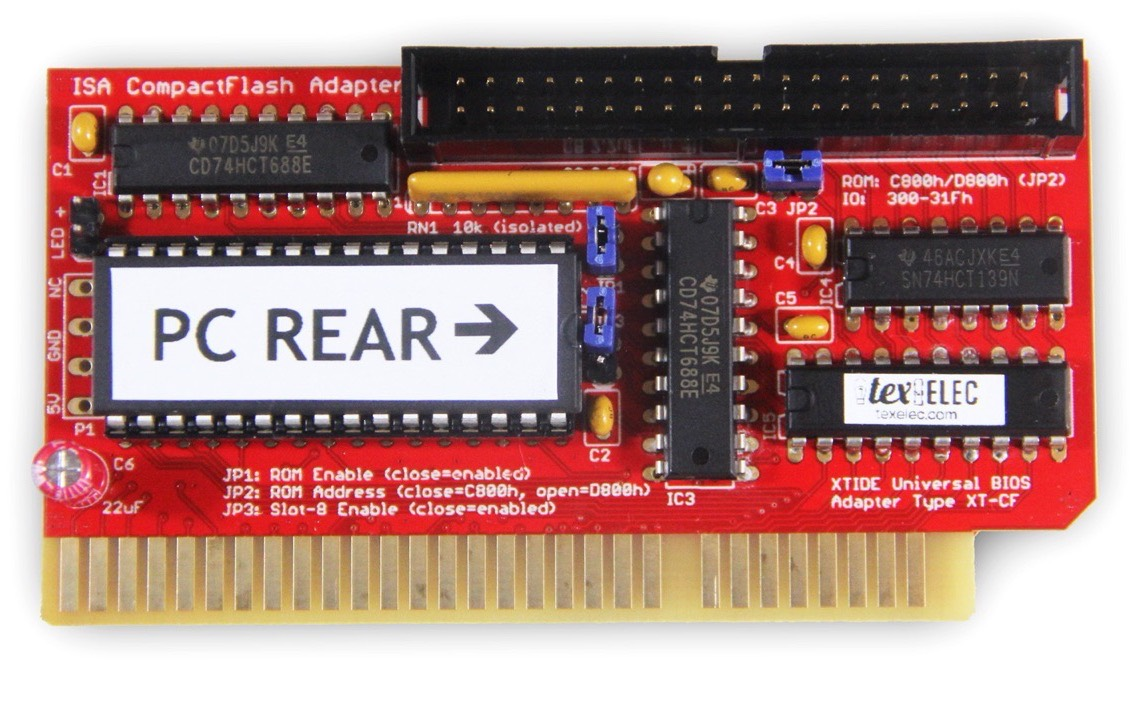
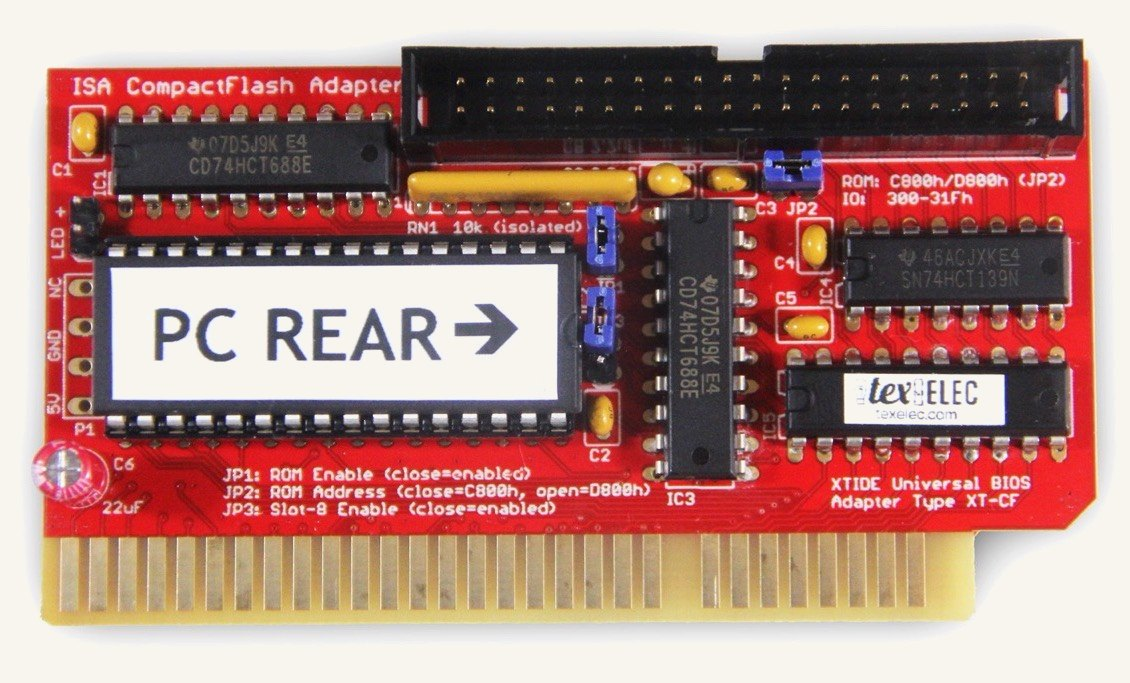
Design refresh phase 4: re-matte + trim hero images
tools/hero-rematte.py composites transparent heroes onto the ground
colour (#f8f5ef) and replaces near-white studio backgrounds on the
rest, so every frameless hero and feed thumbnail now sits flush on the
page with no white rectangle. Dead margins trimmed (never below 50% of
the original in a dimension). Five opaque photo-PNGs converted to JPEG
with their references updated; logos/pixel-art/screenshots kept as-is.
Hero <img> capped at 40rem so small source art isn't upscaled hard.

Checkpoint for review — not for master.

Claude-Session: https://claude.ai/code/session_012utzLUUvTAkHjcsaopjnGb

diff --git a/css/main.css b/css/main.css
@@ -222,7 +222,7 @@ aside p {
   font-size: 1.1rem;
 }
 
-/* hero image — frameless, sits on the ground, runs wider than the text */
+/* hero image — frameless, sits on the ground */
 .hero {
   margin: 1.9rem 0 0;
 }
@@ -230,7 +230,7 @@ aside p {
 .hero img {
   display: block;
   width: 100%;
-  max-width: 100%;
+  max-width: min(40rem, 100%);   /* consistent presence; small source art isn't blown up past this */
   height: auto;
   border: 0;
   border-radius: 0;

diff --git a/tools/hero-rematte.py b/tools/hero-rematte.py
@@ -1,0 +1,136 @@
+#!/usr/bin/env python3
+"""Re-matte hero images onto the site ground colour, trim dead margins,
+and convert opaque photo-PNGs to JPEG (updating the frontmatter/body refs).
+Full-frame photos and screenshots are left untouched. Re-run-safe."""
+import re, pathlib, sys
+from PIL import Image, ImageDraw, ImageChops
+
+GROUND = (0xF8, 0xF5, 0xEF)
+CONTENT_DIRS = ['_hardware', '_posts', '_projects', '_howto', '_software', '_drafts', '_reference']
+# PNG heroes that must stay PNG (logos / pixel art / screenshots)
+KEEP_PNG = {
+    '3dfx-original-logo-design.png', '8-bit-Memories.png', 'keen.png',
+    'moonlight.png', 'retropie_logo.png',
+    'lotus-ste-lotus-esprit-turbo-challenge-car-atari-st.png',
+}
+
+def hero_map():
+    m = {}
+    for d in ['_hardware', '_posts', '_projects', '_howto', '_software']:
+        for p in pathlib.Path(d).glob('*.md'):
+            mm = re.search(r'^hero:\s*(\S+)\s*$', p.read_text(), re.M)
+            if mm:
+                m.setdefault(mm.group(1), []).append(p)
+    return m
+
+def has_transparency(im):
+    if im.mode in ('RGBA', 'LA'):
+        return im.convert('RGBA').getchannel('A').getextrema()[0] < 250
+    return im.mode == 'P' and 'transparency' in im.info
+
+def near_white_border(rgb):
+    w, h = rgb.size
+    cs = [rgb.getpixel(p) for p in [(0,0),(w-1,0),(0,h-1),(w-1,h-1)]]
+    return all(max(c)-min(c) < 12 for c in cs) and all(sum(c)/3 > 236 for c in cs)
+
+def replace_white_bg(rgb, ff_thresh=45):
+    d = rgb.copy()
+    w, h = d.size
+    for seed in [(0,0),(w-1,0),(0,h-1),(w-1,h-1),(w//2,0),(w//2,h-1),(0,h//2),(w-1,h//2)]:
+        try:
+            if sum(d.getpixel(seed)) / 3 > 235:
+                ImageDraw.floodfill(d, seed, GROUND, thresh=ff_thresh)
+        except Exception:
+            pass
+    px = d.load()
+    for y in range(h):
+        for x in range(w):
+            r, g, b = px[x, y]
+            if r >= 243 and g >= 241 and b >= 235 and max(r, g, b) - min(r, g, b) < 16:
+                px[x, y] = GROUND
+    return d
+
+def autotrim(rgb, pad_frac=0.04, floor=0.5):
+    w, h = rgb.size
+    bg = Image.new('RGB', rgb.size, GROUND)
+    diff = ImageChops.difference(rgb, bg).point(lambda x: 0 if x < 18 else x)
+    bbox = diff.getbbox()
+    if not bbox:
+        return rgb
+    l, t, r, b = bbox
+    pad = int(max(w, h) * pad_frac)
+    l, t = max(0, l - pad), max(0, t - pad)
+    r, b = min(w, r + pad), min(h, b + pad)
+    # never shrink a dimension below `floor` of the original
+    if r - l < w * floor:
+        grow = (int(w * floor) - (r - l) + 1) // 2
+        l, r = max(0, l - grow), min(w, r + grow)
+    if b - t < h * floor:
+        grow = (int(h * floor) - (b - t) + 1) // 2
+        t, b = max(0, t - grow), min(h, b + grow)
+    if (l, t, r, b) == (0, 0, w, h):
+        return rgb
+    return rgb.crop((l, t, r, b))
+
+def process_image(path):
+    im = Image.open(path)
+    o = im.size
+    if has_transparency(im):
+        src = im.convert('RGBA')
+        base = Image.new('RGB', src.size, GROUND)
+        base.paste(src, mask=src.split()[3])
+        rgb, kind = base, 'matte'
+    else:
+        rgb = im.convert('RGB')
+        if near_white_border(rgb):
+            rgb, kind = replace_white_bg(rgb), 'rematte'
+        else:
+            return None
+    rgb = autotrim(rgb)
+    # decide output format
+    name = path.name
+    if path.suffix.lower() == '.png' and name not in KEEP_PNG:
+        newpath = path.with_suffix('.jpg')
+        rgb.save(newpath, quality=86, optimize=True, progressive=True)
+        if newpath != path:
+            path.unlink()
+        return (kind, o, rgb.size, path.name, newpath.name)
+    if path.suffix.lower() in ('.jpg', '.jpeg'):
+        rgb.save(path, quality=86, optimize=True, progressive=True)
+    else:
+        rgb.save(path, optimize=True)
+    return (kind, o, rgb.size, path.name, path.name)
+
+def update_refs(old, new):
+    if old == new:
+        return
+    for d in CONTENT_DIRS:
+        dp = pathlib.Path(d)
+        if not dp.is_dir():
+            continue
+        for p in dp.glob('*.md'):
+            t = p.read_text()
+            if old in t:
+                p.write_text(t.replace(old, new))
+    for extra in ['all-posts.json', 'feed.xml', 'sitemap.html', '_layouts/index.html']:
+        p = pathlib.Path(extra)
+        if p.exists() and old in p.read_text():
+            p.write_text(p.read_text().replace(old, new))
+
+hm = hero_map()
+report = []
+for f, pages in sorted(hm.items()):
+    ip = pathlib.Path('img') / f
+    if not ip.exists():
+        print(f"  MISSING {f}"); continue
+    r = process_image(ip)
+    if r:
+        kind, o, n, oldname, newname = r
+        if newname != oldname:
+            update_refs(oldname, newname)
+        report.append((newname, kind, o, n))
+
+print(f"\nprocessed {len(report)} heroes\n")
+for name, kind, o, n in report:
+    kb = (pathlib.Path('img') / name).stat().st_size // 1024
+    print(f"  {name:<48} {kind:<8} {str(o):<12} -> {str(n):<12} {kb:>4}KB")

diff --git a/_posts/2025-12-28-the-ugly-dell-optiplex-that-became-my-dream-retro-gaming-pc.md b/_posts/2025-12-28-the-ugly-dell-optiplex-that-became-my-dream-retro-gaming-pc.md
@@ -4,11 +4,11 @@ title: "The Ugly Dell That Became My Dream Retro Gaming PC"
 date: '2025-12-28 11:22:00:00'
 summary: |-
   I wanted a retro PC that could do the full “greatest hits” tour of retro gaming: **native DOS**, **Windows 98**, and **Windows XP** — without spending silly money, without hunting rare parts for months, and without ending up with something that’s allergic to modern conveniences like SATA.
-image: dell-optiplex-380-small.png
+image: dell-optiplex-380-small.jpg
 tags: [MS-DOS, PC, Posts, Retrocomputing, Retrogaming, Windows 98, Windows XP]
 ---
 
-![Dell OptiPlex 380 desktop](/img/dell-optiplex-380-small.png)
+![Dell OptiPlex 380 desktop](/img/dell-optiplex-380-small.jpg)
 
 *<center>Yes, it’s a Dell… but let’s not judge a book by its greige cover.</center>*
 

diff --git a/_hardware/dell-optiplex-380.md b/_hardware/dell-optiplex-380.md
@@ -4,7 +4,7 @@ title: Dell OptiPlex 380
 summary: Hardware notes on the Dell OptiPlex 380 — a cheap Core 2-era Dell that covers DOS, Windows 98, and Windows XP unusually well.
 date: '2025-12-29 10:30:00'
 tags: [Computers, PC]
-hero: dell-optiplex-380-small.png
+hero: dell-optiplex-380-small.jpg
 ---
 
 The Dell OptiPlex 380 is an unassuming late-2000s business desktop, and it's become one of my favourite cheap retro PC bases. It's common, dirt cheap on the second-hand market, and just old enough to keep the legacy I/O that makes DOS and Windows 98 livable — while being fast enough to crush anything from that era.

diff --git a/_posts/2025-08-17-cga-gaming-on-an-mda-ttl-monochrome-monitor-with-the-ati-graphics-solution-sr-amstrad-pc1640.md b/_posts/2025-08-17-cga-gaming-on-an-mda-ttl-monochrome-monitor-with-the-ati-graphics-solution-sr-amstrad-pc1640.md
@@ -70,7 +70,7 @@ So far as I can tell, this is (almost!) a unique feature — the only other card
 
 As a next step, I’m trying to buy an EGA Wonder. This should achieve the same graphics emulation support as the Graphics Solution SR — but this time with **EGA** colour mode. Wish me luck!
 
-![ATI Graphics Solution SR](/img/ati-graphics-solution-sr.png)
+![ATI Graphics Solution SR](/img/ati-graphics-solution-sr.jpg)
 
 
 ### Further Reading

diff --git a/_hardware/ati-small-wonder-graphics-solution-aka-graphics-solution-sc.md b/_hardware/ati-small-wonder-graphics-solution-aka-graphics-solution-sc.md
@@ -4,7 +4,7 @@ title: ATi Small Wonder Graphics Solution
 summary: My take on the ATI Small Wonder Graphics Solution, a close relative of the Graphics Solution SR with the same CGA-on-a-monochrome-monitor trick.
 date: '2025-08-19 18:47:00'
 tags: [ATi Graphics, Graphics Cards, PC]
-hero: ati-small-wonder-graphics-solution-v1.png
+hero: ati-small-wonder-graphics-solution-v1.jpg
 hero_alt: ATI Small Wonder Graphics Solution
 ---
 

diff --git a/_hardware/ati-graphics-solution-sr.md b/_hardware/ati-graphics-solution-sr.md
@@ -4,7 +4,7 @@ title: ATi Graphics Solution SR
 summary: My take on the ATI Graphics Solution SR, a 1987 graphics card with a neat trick — playing CGA games on a monochrome MDA monitor.
 date: '2025-08-19 18:47:00'
 tags: [ATi Graphics, Graphics Cards, PC]
-hero: ati-graphics-solution-sr.png
+hero: ati-graphics-solution-sr.jpg
 hero_alt: ATI Graphics Solution SR
 ---
 

diff --git a/_hardware/sega-dreamcast.md b/_hardware/sega-dreamcast.md
@@ -4,7 +4,7 @@ title: Sega Dreamcast
 summary: My take on the Sega Dreamcast — Sega's brilliant last console, picked up for $12 from a Hong Kong roadside, and still one of the easiest classic systems to recommend.
 date: '2024-08-29 11:33:00'
 tags: [Consoles, Sega]
-hero: sega-dreamcast.png
+hero: sega-dreamcast.jpg
 hero_alt: Sega Dreamcast console
 ---
 

diff --git a/_hardware/atari-st.md b/_hardware/atari-st.md
@@ -4,7 +4,7 @@ title: Atari ST
 summary: Personal overview of the Atari ST family and why the platform still matters for retro computing and gaming.
 date: '2024-08-29 11:33:00'
 tags: [Atari ST, Computers]
-hero: atari-st-1040stfm-transparent-bg.png
+hero: atari-st-1040stfm-transparent-bg.jpg
 hero_alt: Atari 1040STFM
 ---
 

diff --git a/_projects/building-a-retro-rocket-pc-on-the-cheap.md b/_projects/building-a-retro-rocket-pc-on-the-cheap.md
@@ -4,7 +4,7 @@ title: Building a Retro Rocket PC on the Cheap
 date: '2025-12-28 12:00:00'
 tags: [MS-DOS, PC, Projects, Retrocomputing, Retrogaming, Windows 98, Windows XP]
 status: completed
-hero: dell-optiplex-380-small.png
+hero: dell-optiplex-380-small.jpg
 hero_alt: Dell OptiPlex 380 desktop
 ---
 
